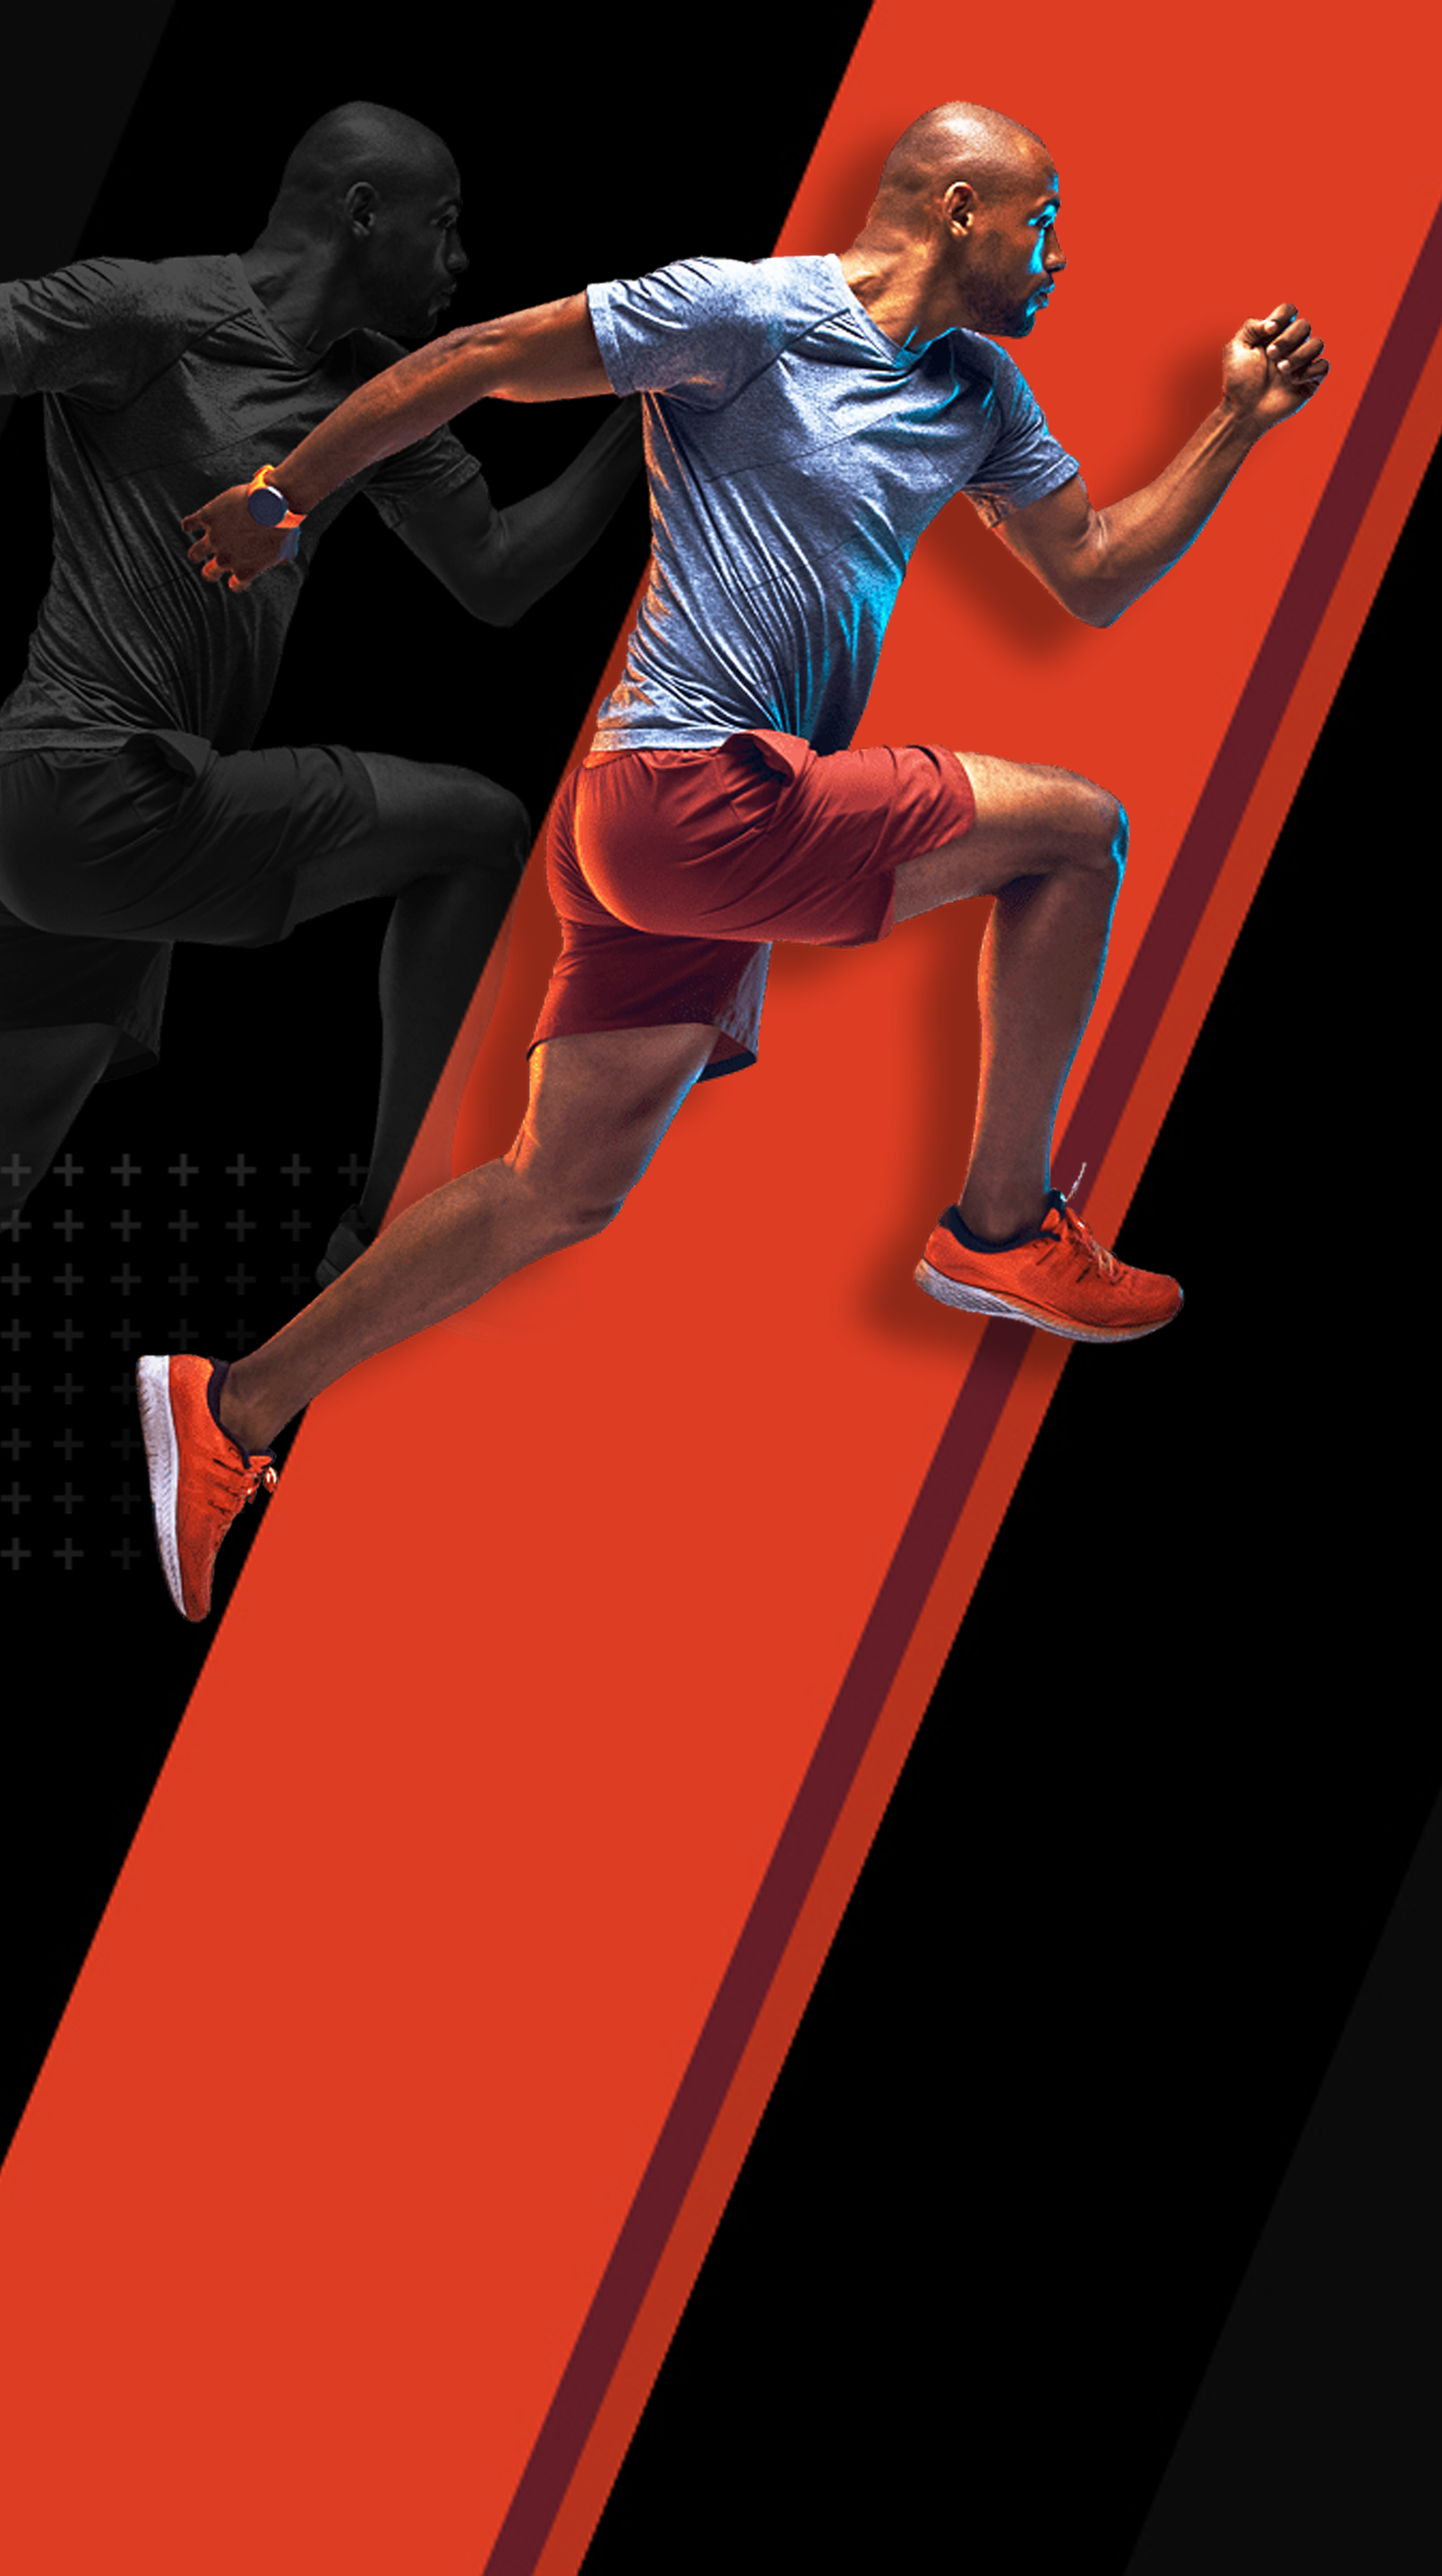
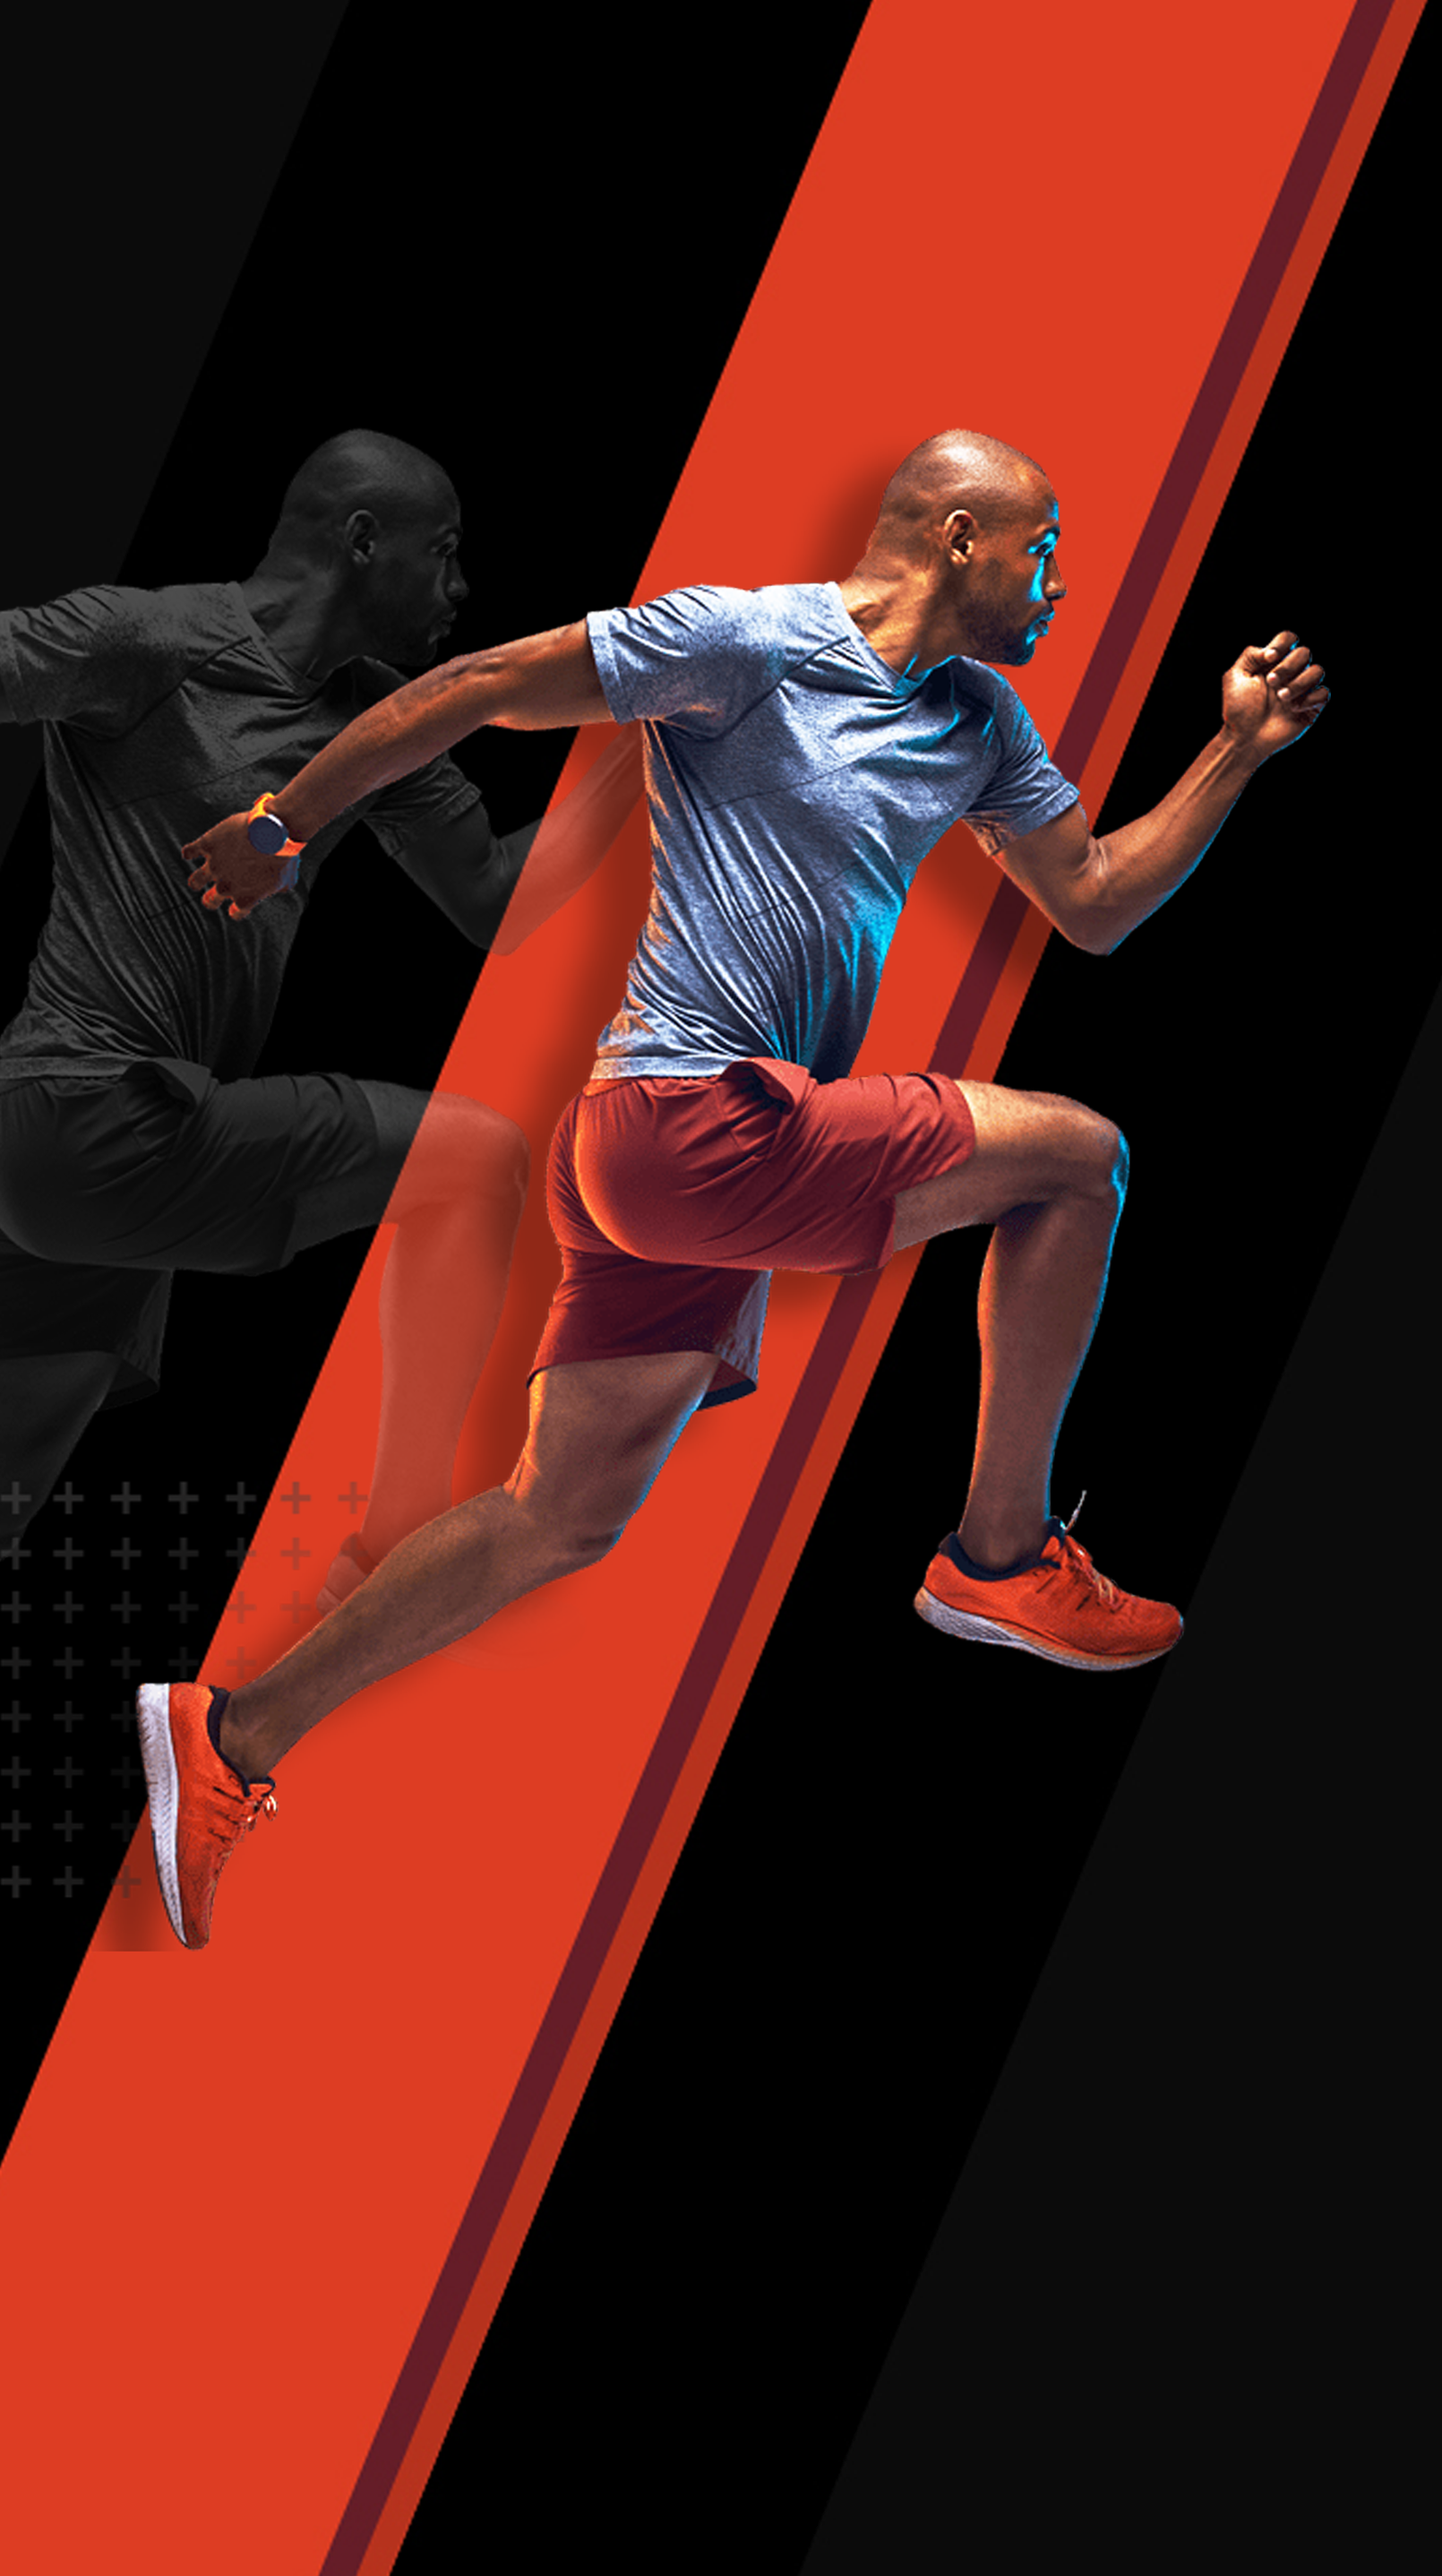
test 10

diff --git a/main.css b/main.css
@@ -540,11 +540,8 @@ nav a:hover{
     
     
     body{
-        background-image: url(images/backgroundImage.for.mobile.png)!important;
-        background-repeat: no-repeat;
-        background-position: center;
-        background-size: cover;
-        background-attachment: fixed;
+        background-image: none!important;
+        background-color: bisque;
     }
     
     /*nav*/
@@ -589,12 +586,11 @@ nav a:hover{
         background-image: url(images/sectionOneImage.2.for.mobile.png)!important;
         background-repeat: no-repeat;
         background-position: center;
-        background-size: contain!important;
+        background-size: cover!important;
         height: 653px;
-        padding: 0px 30px!important;
+        padding: 0px 0px!important;
         margin: 0px 0px!important;
         margin-bottom: 0!important;
-/*        height: 100vh!important;*/
     }
     .section-One .container{
         display: flex;
@@ -604,6 +600,7 @@ nav a:hover{
         display: flex;
         flex-direction: column!important;
         padding-top: 80%!important;
+        padding: 0px 30px;
     }
     .section-One .column > div{
         flex: 0px!important;
